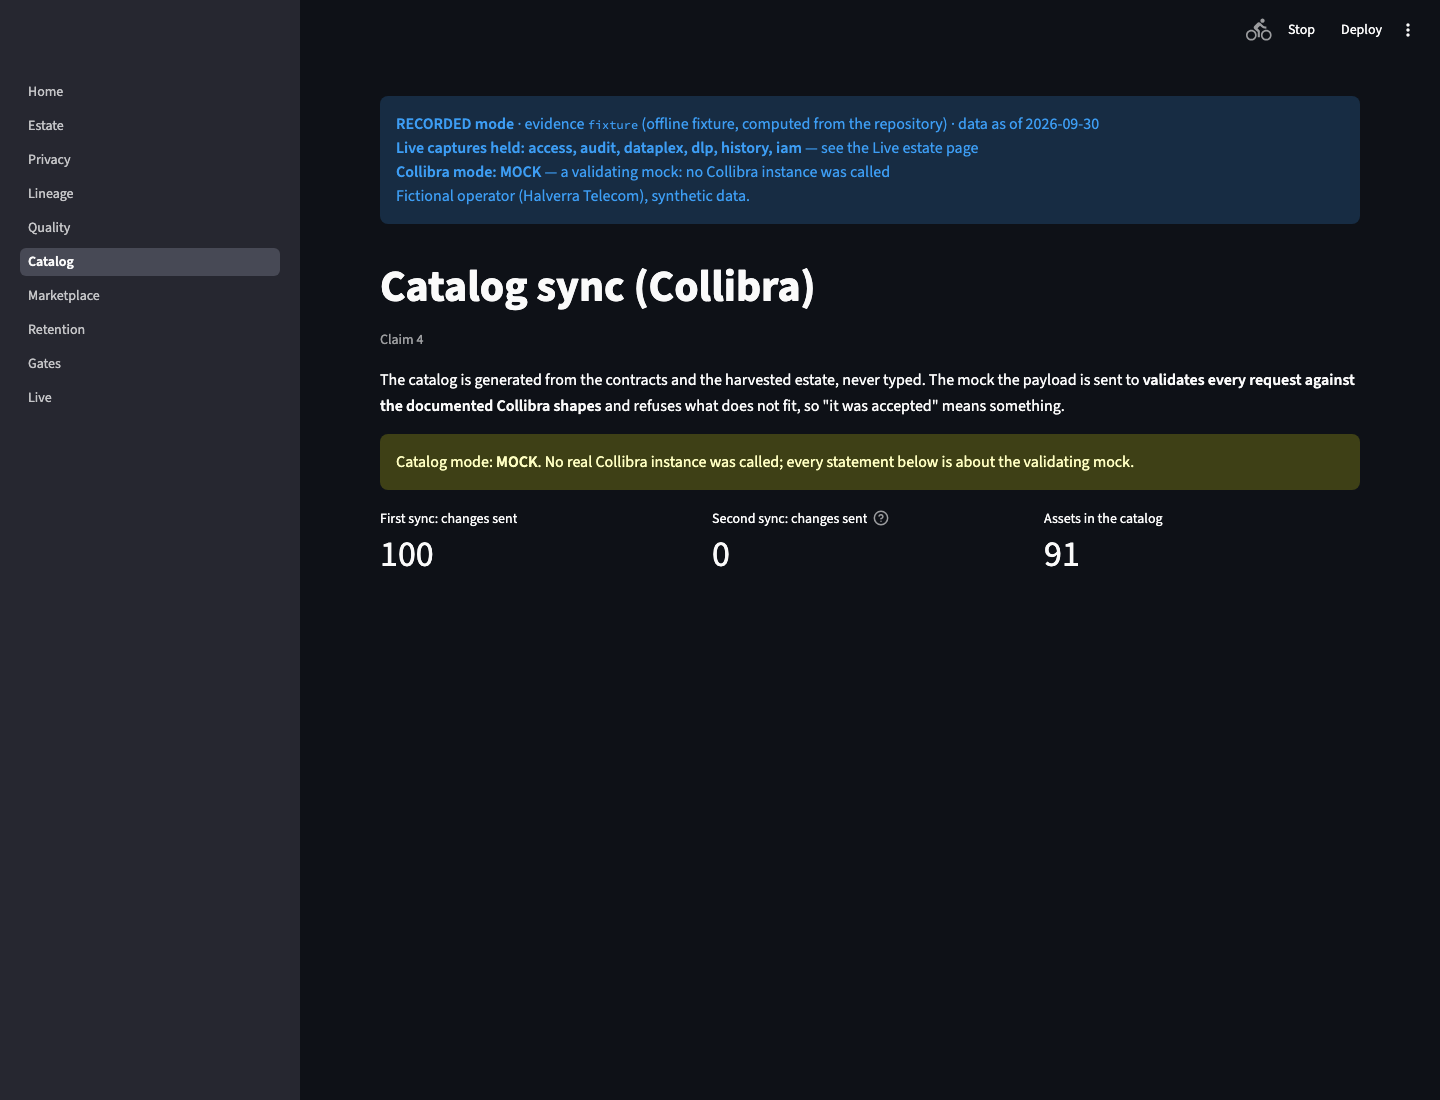
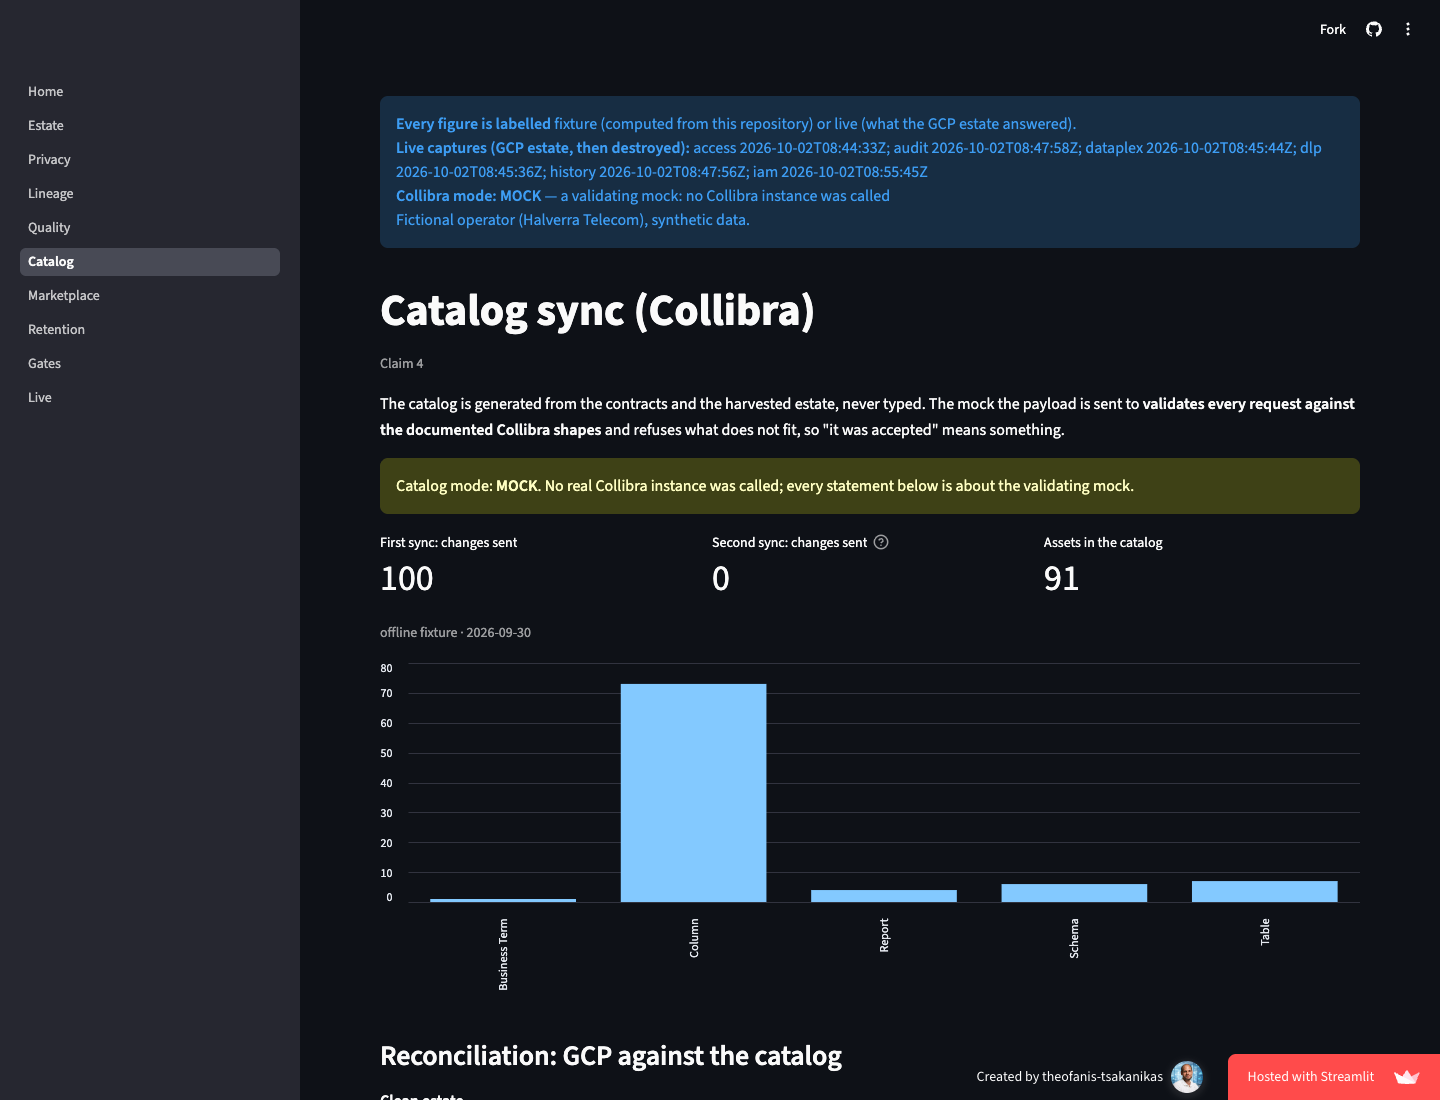
docs: hosted-demo screenshots and a timed interview script (#42)
* docs: recapture README from the hosted demo and time the interview script

The Status screenshots still showed the old recorded-mode banner. They now match
the public app, including the live three-role transcripts for claim 2, and the
3-minute script names what each page actually shows.

* fix(docs): claim 2 figure is one customers query, three seats

The first screenshot showed customers and usage_events together. Recapture is
analyst hashed, steward last-four, fraud denied — the JSON the page already held.

---------

diff --git a/docs/INTERVIEW.md b/docs/INTERVIEW.md
@@ -3,6 +3,8 @@
 The role, as the recruiter described it, line by line, and where Steward answers it. The demo page
 in brackets. (The employer is private; this file names no company.)
 
+Hosted demo (public, no login): <https://steward-governance.streamlit.app>
+
 | The role asks | Steward shows | Page |
 |---|---|---|
 | Automate data governance on GCP | Contracts compile to controls; Terraform; CI gates | 1, 8 |
@@ -17,22 +19,45 @@ in brackets. (The employer is private; this file names no company.)
 
 ## The 3-minute demo script (to rehearse with the author in T030)
 
-Open the home page so the MOCK badge and “fictional operator” line are on screen before you speak.
+Open <https://steward-governance.streamlit.app> so the **MOCK** badge, the **fictional operator**
+line, and the live-capture timestamps are on screen before you speak. Do not wait for a login.
 
-1. (20 s) "A fictional European operator on GCP. Contracts declare every dataset; everything else is generated. The live estate was applied, captured and destroyed — what you are looking at is the evidence."
-2. (40 s) Privacy: a column called `ref_2` held phone numbers; the value-based detector found it (the contract is never an input). Then one query, three roles, three answers. Live, BigQuery masked; offline we prove the compiled Terraform.
-3. (40 s) Lineage: source → table → LookML view → dashboard; a field that resolves nowhere and a sensitive column that reached a dashboard unmasked are both red. Edges from jobs and from LookML are cross-checked, not merged.
-4. (40 s) Catalog: the Collibra payload, second sync = zero changes, the reconciliation report. Say **MOCK** first. 91 assets in the fixture.
-5. (20 s) Marketplace: a request approved by a named person, not the requester, with an expiry. An expired grant still present turns CI red.
-6. (20 s) Gates: every gate is broken on purpose; the named gate must refuse it, for the right reason.
+1. **Home (20 s).** "A fictional European operator on GCP. YAML contracts declare every dataset;
+   everything else is generated. We applied the estate, captured what BigQuery, DLP and Dataplex
+   actually answered, then destroyed it. Each figure on this page says fixture or live, with that
+   file's own date — not one banner date."
+2. **Privacy (40 s).** Click Privacy. First the offline detector: a column called `ref_2` held
+   phone numbers; values only, the contract is never an input — the recall numbers are on the
+   page, read from the fixture. Scroll to **One query, three roles** — that block is a live
+   capture. Same `SELECT` on `crm.customers`: the analyst gets hashed MSISDN, email
+   `XXXXX@example.net`, GR rows only; the steward sees last-four MSISDN (`XXXXX6536` and the
+   rest) and every country; fraud is denied that table (Access Denied). Optionally, the next
+   query on that page is `network.usage_events`, which fraud *may* read in the clear — that is a
+   second statement, not a substitute for the deny. Offline, the compiled seat × column check
+   is the caption under the transcripts.
+3. **Lineage (40 s).** Source → table → LookML view → dashboard. A field that resolves nowhere and
+   a sensitive column that reached a dashboard unmasked are both red. Job-history edges and LookML
+   edges are cross-checked, not merged. The job list at the top is live; the graph under it is the
+   fixture.
+4. **Catalog (30 s).** Say **MOCK** first. Generated payload; first sync sent changes, second
+   sent none; the asset counts are the metrics on the page. The yellow banner is the point: no
+   Collibra instance was called.
+5. **Marketplace (20 s).** Live IAM bindings first (the estate's actual policy, then destroyed).
+   A request becomes a grant only after a named human who is not the requester; every grant has
+   an expiry; an expired grant still present turns CI red.
+6. **Gates (10 s).** Every gate is broken on purpose; the named gate must refuse it, for the right
+   reason. If there are ten seconds left, Live estate: the same captures re-judged offline, every
+   check passes, no GCP account.
 
 ## Honest lines (say them first)
+
 - "Collibra and Looker: not in production. I built against their documented model and APIs; the demo says MOCK where it is a mock."
 - "GCP governance services: I learned them for this. My production-style GCP work is the telemetry pipeline on GKE, BigQuery, dbt."
 - "BigQuery deletion isn't immediate: time travel and fail-safe keep data up to about two weeks; the retention report says so."
 - "It's a reference build on synthetic data, deployed, captured and destroyed — not a client system."
 
 ## Interview scenarios this rehearses
+
 Slow BigQuery query · lineage to the catalog · DQ rules · PII end to end · pseudonymisation vs hashing · retention · Data Marketplace · legacy metadata · a governance control you built.
 
-Rehearsal with the author is still open (T030).
+Dry-run against the hosted URL: 2026-10-02 (session, pages walked, timings above). Speaking rehearsal with the author is still open (T030 / D8).

diff --git a/README.md b/README.md
@@ -37,11 +37,11 @@ Steward makes the estate declare itself and makes that drift a failing build. Fi
 
 ## Status
 
-Applied on GCP on 2026-10-02, captured, judged offline, then destroyed. The GitHub `destroy` workflow is green (`ok sweep: 0` leftovers). The bootstrap layer (state bucket, Workload Identity, budget, guard, reaper) remains until the project is deleted — it is not $0 idle. The repository is public. **Demo (recorded, no login):** [https://steward-governance.streamlit.app](https://steward-governance.streamlit.app).
+Applied on GCP on 2026-10-02, captured, judged offline, then destroyed. The GitHub `destroy` workflow is green (`ok sweep: 0` leftovers). The bootstrap layer (state bucket, Workload Identity, budget, guard, reaper) remains until the project is deleted — it is not $0 idle. The repository is public. **Demo (no login):** [https://steward-governance.streamlit.app](https://steward-governance.streamlit.app) — live captures first, fixture only where none exists.
 
 <p align="center">
-  <img src="images/status.png" width="860" alt="Recorded demo home: seven claims and the figures the evidence files actually hold"><br>
-  <sub><b>Recorded mode, seven claims.</b> — Collibra MOCK, fictional operator. 18/18 planted pairs, 3,200 seat × column decisions, second catalog sync sent 0.</sub>
+  <img src="images/status.png" width="860" alt="Hosted demo home: seven claims, each labelled fixture or live with that file's date"><br>
+  <sub><b>Seven claims, each figure labelled.</b> — Collibra MOCK, fictional operator. Live transcripts, DLP, Dataplex, IAM; fixture for catalog, retention, gates.</sub>
 </p>
 
 ## Contents
@@ -82,11 +82,15 @@ The detector reads **values only**. The contract is never an input. A column cal
 
 <sub><b>Values vs the contract.</b> — `crm.support_tickets.ref_2` is an MSISDN; the contract tags it personal. Innocent-named columns: 6 of 6 found.</sub>
 
-Live, Google DLP on the same planted set was 16/18 (two misses listed, not hidden). The core detector stayed 18/18. n = 18 (column, kind).
+Live, Google DLP on the same planted set was 16/18 (misses listed in `evals/dlp`: `crm.customers.address.street` / address, `legacy.legacy_crm_export.dt_x` / birth_date). The core detector stayed 18/18. n = 18 (column, kind). The screenshot above is the offline detector; DLP is the next block on that page.
 
 ## Same query, three answers
 
 Contracts compile to policy tags, masking (hash, nullify, last-four) and row access policies. Offline proves the compiled Terraform is what the contract implies — 3,200 seat × column decisions, 0 mismatches. Enforcement was captured live as three role transcripts (analyst / fraud / steward) and is re-checked by `scripts/check_live.py` with no account.
+
+![Same SELECT on crm.customers as analyst, steward, and fraud](images/privacy-roles.png)
+
+<sub><b>One query, three answers, from the estate.</b> — same <code>SELECT</code> on <code>crm.customers</code>. Analyst: hashed MSISDN, <code>XXXXX@example.net</code>, GR rows only. Steward: last-four MSISDN, IT and GR. Fraud: Access Denied. Live capture 2026-10-02, then destroyed.</sub>
 
 ## The catalog is generated
 
@@ -98,11 +102,11 @@ The Collibra payload (communities, domains, assets, relations, responsibilities)
 
 ## Live captures, judged offline
 
-The estate answered; the repository judges. Six live files (`access`, `dlp`, `dataplex`, `iam`, `audit`, `history`) sit beside the fixtures. The Live page never replaces recorded mode.
+The estate answered; the repository judges. Six live files (`access`, `dlp`, `dataplex`, `iam`, `audit`, `history`) sit beside the fixtures. Claim pages show a live capture first when one exists; this page re-judges every file with no GCP account.
 
 ![Live estate page: captures listed, judged offline](images/live.png)
 
-<sub><b>Live beside recorded, not instead.</b> — six capture tabs; the judgements are in CI (`check_live.py`), not only on this page.</sub>
+<sub><b>Live, re-judged offline.</b> — six capture tabs; every check passes in CI (`check_live.py`), not only on this page.</sub>
 
 ---
 

diff --git a/PLAN.md b/PLAN.md
@@ -15,8 +15,8 @@ the pure core, and the evals for claims 1, 2 (compiled side), 5, 6, 7 — plus `
 **Closes when.** `make test evals gate-proof check` is green on a laptop with no credentials; every
 gate has at least one mutation refused for the right reason; generators pass `--check`.
 
-Closed in this phase: —
-Open: see `TASKS.md` (T000–T009).
+Closed 2026-10-01: T000–T009 (PRs #1–#10). Offline claims 1, 2 (compiled), 5, 6, 7 and `gate-proof`.
+Open: none in this phase.
 
 ---
 
@@ -29,8 +29,8 @@ fixture evidence — so that a demo exists **before** any money is spent.
 **Closes when.** `make demo` opens all eight pages from fixtures; `make evals` covers claims 3 and 4;
 the Collibra sync is idempotent (second run: 0 changes) against the mock.
 
-Closed in this phase: —
-Open: see `TASKS.md` (T020–T029).
+Closed 2026-10-01: T020–T022. LookML lineage (claim 3), Collibra validating mock (claim 4), recorded Streamlit demo from fixtures. T024 waits on a trial (D2, expiry 2026-10-05).
+Open: T024 only.
 
 ---
 
@@ -45,8 +45,8 @@ DLP and Dataplex, capture **live evidence** for every claim into `evidence/`, ve
 them offline; the demo switches from fixtures to captured evidence; spend ≤ €50; the estate is
 destroyed and the destroy is recorded.
 
-Closed in this phase: —
-Open: see `TASKS.md` (T010–T019).
+Closed 2026-10-02: T010–T017. Estate applied from CI via WIF, live evidence captured (access, DLP, Dataplex, IAM, audit, history), judged offline, four layers destroyed (`ok sweep: 0`). Gross spend well under the €10 stop; bootstrap remains until the project is deleted.
+Open: none in this phase.
 
 ---
 
@@ -60,8 +60,7 @@ accepts or rejects (doctrine 5), shown as proposals, never applied automatically
 **Closes when.** A public demo link opens in a browser with no login; README passes `readme-standard`;
 the review's findings are fixed or recorded as deferred with an unlock condition.
 
-Closed in this phase: —
-Open: see `TASKS.md` (T030–T039).
+In progress 2026-10-02: T030. Hosted demo is public ([https://steward-governance.streamlit.app](https://steward-governance.streamlit.app), D7 done). README to the portfolio standard; level-2 review findings fixed or deferred. Remaining unlock: D8, the 3-minute script spoken with the author. T031 is cut (D4).
 
 ---
 

diff --git a/AGENTS.md b/AGENTS.md
@@ -25,19 +25,10 @@ unchanged**. Read, in order: `CLAUDE.md` → `KICKOFF.md` → `PLAN.md` → `TAS
 2. A `docs/DAY-ONE.md` step only the author can do (billing, credentials, trials).
 3. A doc that is wrong in a way that changes a claim.
 
-## Where things stand (2026-10-01, when Claude Code stopped)
-- Closed and merged on `main`: T000–T009 (PRs #1–#10).
-- **PR #11 (T020, claim 3 — LookML lineage), branch `t020-lookml`:** review + verification pass done and
-  recorded in `SESSION-LOG.md`; last commit `52a78f4`. **`make preflight` has not been run on that last
-  commit** → run it, push if needed, wait for CI green, merge.
-- **T021 is half-built and STASHED:** `git stash list` → `t021-wip` (on `t020-lookml`). It holds the catalog
-  core, the validating mock, the REST client and the sync; `sync` / `reconcile` are not yet wired into
-  the CLI. After merging #11: create branch `t021-collibra` from `main`, `git stash apply` the
-  `t021-wip` stash (not `t003-wip`, which is old), finish T021.
-- Then **T022** (Streamlit demo, recorded mode, fixtures) → write + `terraform validate` the Terraform for
-  **T010–T016** → **hard stop** with a Greek summary: what is built, what the demo shows, estimated GCP
-  cost, the exact DAY-ONE inputs needed to apply.
-- **Known phase-3 issue — DECISIONS B8:** BigQuery data masking needs the project to belong to a GCP
-  organization. Without one, claim 2 live shows deny / clear / row-filtered but not masked values; the
-  options are in `docs/DAY-ONE.md` step 1b. Raise it in the hard-stop summary; it is the author's choice.
+## Where things stand (2026-10-02)
+
+- Closed and merged: T000–T022, T010–T017 (PRs through #41). Claims 1–7 offline; live estate applied, captured, destroyed.
+- **T030 open.** Hosted demo: https://steward-governance.streamlit.app (public, no login). D7 done. Remaining unlock: **D8** — INTERVIEW 3-minute script spoken with the author. Dry-run against the URL is dated in `SESSION-LOG.md`. T031 is cut.
+- **T024** blocked on a Collibra trial (D2 expiry 2026-10-05). Mock stands until then.
+- Bootstrap still in the GCP project until it is deleted. DAY-ONE 4 / 7 / 8 still open (author).
 - Deadline: done before **2026-10-06**. Cut order is in `KICKOFF.md`.

diff --git a/SESSION-LOG.md b/SESSION-LOG.md
@@ -423,3 +423,20 @@
 - Υπότιτλος Home: «Seven claims · each figure is labelled fixture or live».
 - Ανοιχτό: INTERVIEW rehearsal (D8).
 
+## 2026-10-02 — INTERVIEW dry-run + README από το hosted URL
+
+- **Τι έγινε:** περπάτημα του 3λεπτου script στο https://steward-governance.streamlit.app (χωρίς login).
+  Το `docs/INTERVIEW.md` λέει ακριβώς τι δείχνει κάθε σελίδα τώρα (live-first, MOCK, timestamps).
+- **Screenshots:** `images/status.png`, `privacy.png`, `privacy-roles.png` (ένα `SELECT` στο
+  `crm.customers` ως analyst / steward / fraud), `catalog.png`, `live.png` από το δημόσιο URL.
+  `check_ids.py` 0 hits.
+- **README:** το Status δεν λέει πια «recorded mode»· το claim 2 έχει το live τριών ρόλων δίπλα στον
+  ισχυρισμό. PLAN phases 1–3 κλειστά στο κείμενο· AGENTS.md ενημερωμένο.
+- **Απόδειξη:** τα PNG στο `images/`· το script στο INTERVIEW.md.
+- **Review (level-2):** το πρώτο `privacy-roles.png` έδειχνε δύο SELECT (customers + usage_events),
+  όχι ένα query τριών ρόλων· η λεζάντα έλεγε «same query» ενώ ονομαζε δύο πίνακες· το INTERVIEW είχε
+  ακέραιους χωρίς πύλη· το 16/18 καθόταν δίπλα σε screenshot χωρίς DLP· `XXXXX@domain` δεν είναι η
+  τιμή στην οθόνη· το T022 stop_at έκλεισε με session walk. Διορθώθηκαν: νέο PNG (analyst / steward /
+  fraud στο ίδιο `crm.customers`), λεζάντες, INTERVIEW χωρίς 18/18·3200·100/0, T022 stop_at πίσω.
+- **Ανοιχτό:** D8 speaking rehearsal με τον συγγραφέα· T024 trial· DAY-ONE 4/7/8· T031 cut.
+

diff --git a/docs/DECISIONS.md b/docs/DECISIONS.md
@@ -44,7 +44,7 @@ Schema: **Scope · Technology · Method · Deliberately deferred**. Every entry:
 | D5 | Dataform for transformations | unlock: never for this timebox unless asked |
 | D6 | VPC Service Controls perimeter | unlock: needs an organization node; if the project has none, documented only |
 | D7 | Hosted recorded demo on Streamlit Community Cloud (T030) | **done 2026-10-02:** [https://steward-governance.streamlit.app](https://steward-governance.streamlit.app) — public, no login |
-| D8 | Interview 3-minute script rehearsed with the author (T030) | unlock: rehearsal dated in `SESSION-LOG.md` |
+| D8 | Interview 3-minute script rehearsed with the author (T030) | dry-run against the hosted URL 2026-10-02 (session); unlock: speaking rehearsal with the author dated in `SESSION-LOG.md` |
 
 ## Decided during the build (session, 2026-10-01)
 - **B1 — The operator is "Halverra Telecom", domain `halverra.example`.** Searched 2026-10-01: no

diff --git a/CHANGELOG.md b/CHANGELOG.md
@@ -4,6 +4,9 @@
 
 - Live estate applied, captured (claims 1, 2, 5, 6) and destroyed. Sweep reported 0 leftovers.
   Bootstrap remains until the project is deleted.
+- Hosted demo: https://steward-governance.streamlit.app (public, no login). README screenshots
+  recaptured from that URL (live-first banner). Claim 2 figure is one `crm.customers` SELECT as
+  analyst / steward / fraud.
 - Catalog mode remains **MOCK**. The operator is fictional; every row is synthetic.
 - `scripts/check_ids.py` refuses a tree that contains the author's GCP identifiers
   (read from git-ignored tfvars or the environment).

diff --git a/TASKS.md b/TASKS.md
@@ -306,7 +306,7 @@ closes        public Streamlit link works with no login; README to readme-standa
 out_of_scope  phase-4 model proposals unless time remains
 stop_at       link sent to the author
 review        yes
-status        open 2026-10-02 — demo URL live; unlock remaining: INTERVIEW rehearsed, dated in SESSION-LOG
+status        open 2026-10-02 — demo URL live; INTERVIEW dry-run against the URL dated; unlock remaining: speaking rehearsal with the author (D8)
 ```
 
 ```
